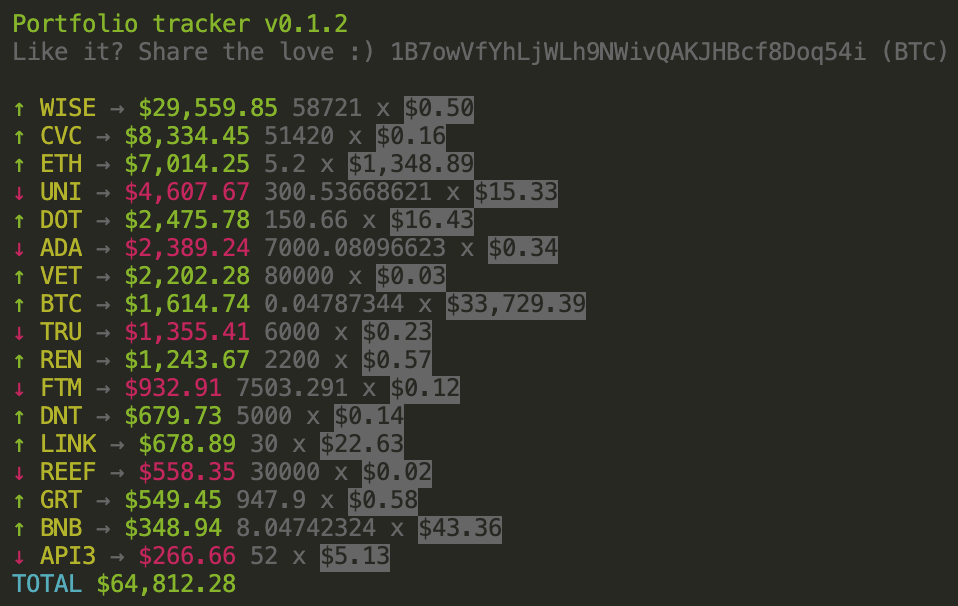
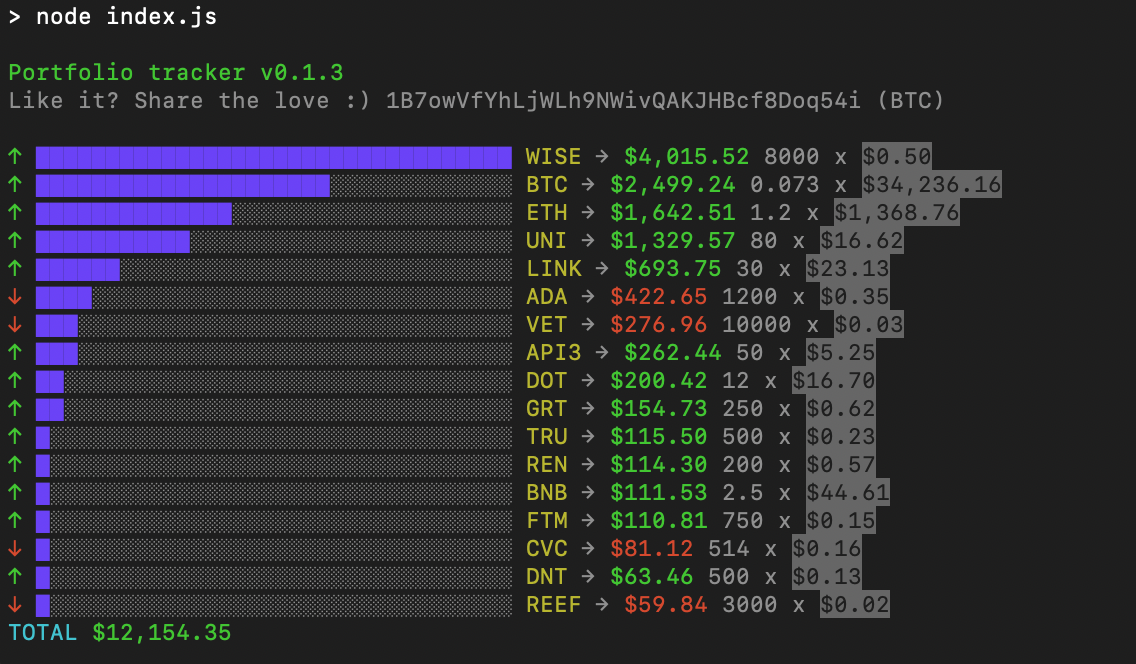
Added bars

Changed region(s): [[0.0, 0.0, 0.999, 0.9802]]

diff --git a/index.js b/index.js
@@ -42,10 +42,11 @@ const display = quotes => {
       }, {})
     ).sort((a, b) => b[1] - a[1])
   )
+  const maxValue = Math.max(...Object.values(values))
   const total = Object.values(values).reduce((total, value) => total + value, 0)
   logUpdate(
     `${Object.keys(values)
-      .map(symbol => `${chalk[getColor(values[symbol], previousValues?.[symbol])](getArrow(values[symbol], previousValues?.[symbol]))} ${chalk.yellow(symbol)} ${chalk.gray(arrowRight)} ${chalk[getColor(values[symbol], previousValues?.[symbol])](formatMoney(values[symbol]))} ${chalk.gray(`${portfolio[symbol]} x ${chalk.inverse(formatMoney(quotes[symbol]))}`)}`)
+      .map(symbol => `${chalk[getColor(values[symbol], previousValues?.[symbol])](getArrow(values[symbol], previousValues?.[symbol]))} ${getBar(maxValue, total, values[symbol])} ${chalk.yellow(symbol)} ${chalk.gray(arrowRight)} ${chalk[getColor(values[symbol], previousValues?.[symbol])](formatMoney(values[symbol]))} ${chalk.gray(`${portfolio[symbol]} x ${chalk.inverse(formatMoney(quotes[symbol]))}`)}`)
       .join('\n')}\n${chalk.cyan('TOTAL')} ${chalk[getColor(total, previousTotal)](formatMoney(total))}`
   )
   previousTotal = total
@@ -61,6 +62,16 @@ const formatMoney = number => {
 
 const getArrow = (current, previous) => {
   return previous ? (previous > current ? arrowDown : previous < current ? arrowUp : '=') : '-'
+}
+
+const getBar = (maxValue, total, value) => {
+  const bar = []
+  const max = (maxValue * 100) / total
+  let percentage = (value * 100) / total
+  for (let i = 0; i <= max; i++) {
+    bar.push(percentage-- > 0 ? chalk.blue('\u2588') : chalk.gray('\u2591'))
+  }
+  return bar.join('')
 }
 
 const getColor = (current, previous) => {
